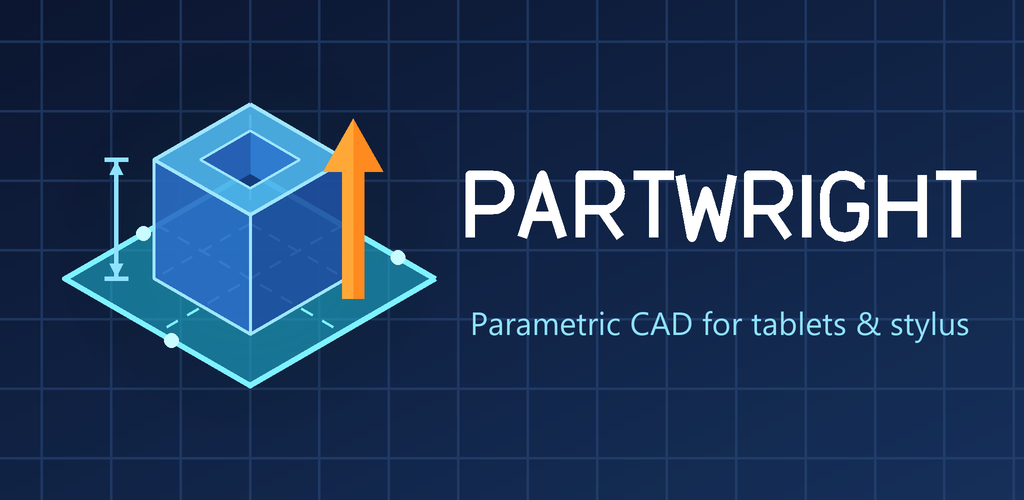
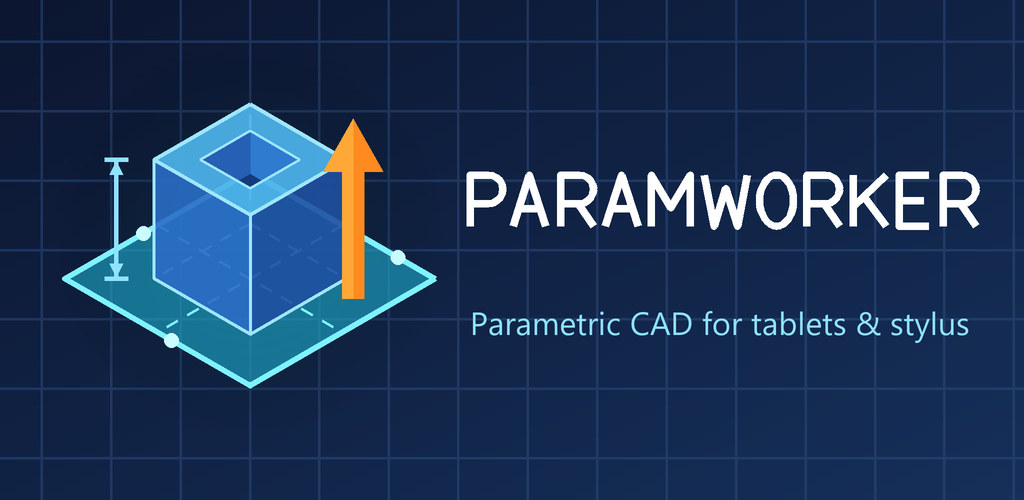
App umbenannt in ParamWorker (Paket io.github.kevbo8327.paramworker)
- Anzeigename, Startseite, Begrüßung, Hilfe, Feedback-Betreff, Theme-Namen
- Schriftzug PARAMWORKER im Startbildschirm und in der Store-Grafik (Linienschrift um M, O, K, E ergänzt)
- Projektexport .paramworker.json; .partwright.json bleibt importierbar
- Dateiformat-Kennung partwright-model bleibt, damit gespeicherte Modelle lesbar bleiben
- Store-Text, Datenschutzerklärung, README, ROADMAP, CI

Changed region(s): [[0.4375, 0.33, 0.9688, 0.48]]

diff --git a/docs/privacy/index.html b/docs/privacy/index.html
@@ -3,7 +3,7 @@
 <head>
 <meta charset="utf-8">
 <meta name="viewport" content="width=device-width, initial-scale=1">
-<title>Partwright – Datenschutzerklärung / Privacy Policy</title>
+<title>ParamWorker – Datenschutzerklärung / Privacy Policy</title>
 <style>
   :root { --bg: #f7f9fd; --fg: #0e1a33; --muted: #4a5b78; --accent: #0a6e8c; }
   @media (prefers-color-scheme: dark) { :root { --bg: #0a1226; --fg: #e8f1ff; --muted: #93a8cc; --accent: #34d1f0; } }
@@ -20,11 +20,11 @@
 <nav><a href="#de">Deutsch</a><a href="#en">English</a></nav>
 
 <section id="de" lang="de">
-<h1>Datenschutzerklärung für die App „Partwright“</h1>
+<h1>Datenschutzerklärung für die App „ParamWorker“</h1>
 <p class="muted">Stand: 10. Oktober 2026</p>
 
 <h2>Kurz gesagt</h2>
-<p>Partwright erhebt keine personenbezogenen Daten. Die App hat keinen Internetzugang, enthält keine Werbung, keine Analyse- oder
+<p>ParamWorker erhebt keine personenbezogenen Daten. Die App hat keinen Internetzugang, enthält keine Werbung, keine Analyse- oder
 Tracking-Werkzeuge und kein Benutzerkonto. Ihre Projekte bleiben auf Ihrem Gerät, solange Sie sie nicht selbst exportieren oder teilen.</p>
 
 <h2>Verantwortlicher</h2>
@@ -68,11 +68,11 @@ Erklärung vorher an. Es gilt die jeweils hier veröffentlichte Fassung.</p>
 <hr>
 
 <section id="en" lang="en">
-<h1>Privacy Policy for the app “Partwright”</h1>
+<h1>Privacy Policy for the app “ParamWorker”</h1>
 <p class="muted">Last updated: 10 October 2026</p>
 
 <h2>In short</h2>
-<p>Partwright does not collect any personal data. The app has no internet access, contains no advertising, no analytics or tracking
+<p>ParamWorker does not collect any personal data. The app has no internet access, contains no advertising, no analytics or tracking
 tools and no user account. Your projects stay on your device unless you export or share them yourself.</p>
 
 <h2>Controller</h2>

diff --git a/app/src/main/kotlin/dev/androidcad/app/ProjectMenu.kt b/app/src/main/kotlin/dev/androidcad/app/ProjectMenu.kt
@@ -255,7 +255,7 @@ internal fun rememberImporter(hub: ProjectHub): () -> Unit {
     val launcher = rememberLauncherForActivityResult(ActivityResultContracts.OpenDocument()) { uri ->
         if (uri != null) scope.launch {
             val text = withContext(Dispatchers.IO) { context.contentResolver.openInputStream(uri)?.use { it.readBytes().toString(Charsets.UTF_8) } }
-            if (text != null) hub.import(displayName(context, uri)?.removeSuffix(".partwright") ?: "Import", text)
+            if (text != null) hub.import(displayName(context, uri)?.removeSuffix(".paramworker")?.removeSuffix(".partwright") ?: "Import", text)
         }
     }
     return { launcher.launch(arrayOf("*/*")) }
@@ -272,10 +272,10 @@ private const val FEEDBACK_ADDRESS = "kb-it-services@outlook.de"
 /** Öffnet das E-Mail-Programm mit Adresse, Betreff und Version/Gerät (hilft beim Nachstellen); ohne E-Mail-App ein Hinweis mit der Adresse. */
 private fun sendFeedback(context: Context) {
     val version = runCatching { context.packageManager.getPackageInfo(context.packageName, 0).versionName }.getOrNull() ?: "?"
-    val body = "\n\n---\nPartwright $version · ${Build.MANUFACTURER} ${Build.MODEL} · Android ${Build.VERSION.RELEASE}"
+    val body = "\n\n---\nParamWorker $version · ${Build.MANUFACTURER} ${Build.MODEL} · Android ${Build.VERSION.RELEASE}"
     val intent = Intent(Intent.ACTION_SENDTO, Uri.parse("mailto:")).apply {
         putExtra(Intent.EXTRA_EMAIL, arrayOf(FEEDBACK_ADDRESS))
-        putExtra(Intent.EXTRA_SUBJECT, "Partwright $version – Feedback")
+        putExtra(Intent.EXTRA_SUBJECT, "ParamWorker $version – Feedback")
         putExtra(Intent.EXTRA_TEXT, body)
     }
     try {

diff --git a/app/src/main/kotlin/dev/androidcad/app/HelpDialog.kt b/app/src/main/kotlin/dev/androidcad/app/HelpDialog.kt
@@ -29,7 +29,7 @@ fun HelpDialog(hub: ProjectHub, firstStart: Boolean, onDismiss: () -> Unit) {
     AlertDialog(
         // beim ersten Start nur über die Knöpfe schließen: ein Tipp daneben soll die Einführung nicht unbemerkt wegnehmen
         onDismissRequest = { if (!firstStart) onDismiss() },
-        title = { Text(if (firstStart) "Willkommen bei Partwright" else "Hilfe") },
+        title = { Text(if (firstStart) "Willkommen bei ParamWorker" else "Hilfe") },
         text = {
             Column(Modifier.heightIn(max = 460.dp).verticalScroll(rememberScrollState()), verticalArrangement = Arrangement.spacedBy(6.dp)) {
                 Section("So entsteht ein Bauteil")
@@ -50,7 +50,7 @@ fun HelpDialog(hub: ProjectHub, firstStart: Boolean, onDismiss: () -> Unit) {
                 // Version für Rückmeldungen (welcher Stand wurde getestet)
                 val context = LocalContext.current
                 val version = remember { runCatching { context.packageManager.getPackageInfo(context.packageName, 0).versionName }.getOrNull() }
-                if (version != null) Text("Partwright $version", style = MaterialTheme.typography.labelSmall, color = MaterialTheme.colorScheme.onSurfaceVariant)
+                if (version != null) Text("ParamWorker $version", style = MaterialTheme.typography.labelSmall, color = MaterialTheme.colorScheme.onSurfaceVariant)
             }
         },
         confirmButton = {

diff --git a/app/src/main/kotlin/dev/androidcad/app/ModelScreen.kt b/app/src/main/kotlin/dev/androidcad/app/ModelScreen.kt
@@ -233,7 +233,7 @@ private fun ModelTopBar(hub: ProjectHub, compact: Boolean) {
                 }
                 DropdownMenuItem(text = { Text("STEP exportieren (CAD-Austausch)") }, onClick = { menu = false; stepExporter.launch("${state.projectName}.step") }, enabled = out?.body != null)
                 DropdownMenuItem(text = { Text("3MF exportieren (3D-Druck)") }, onClick = { menu = false; threeMfExporter.launch("${state.projectName}.3mf") }, enabled = out?.mesh != null)
-                DropdownMenuItem(text = { Text("Projekt exportieren …") }, onClick = { menu = false; projectExporter.launch("${state.projectName}.partwright.json") })
+                DropdownMenuItem(text = { Text("Projekt exportieren …") }, onClick = { menu = false; projectExporter.launch("${state.projectName}.paramworker.json") })
                 DropdownMenuItem(text = { Text("Zum Skript-Editor (OpenSCAD)") }, onClick = { menu = false; hub.switchTo(ProjectKind.SCRIPT) })
             }
         }

diff --git a/app/src/main/kotlin/dev/androidcad/app/StartScreen.kt b/app/src/main/kotlin/dev/androidcad/app/StartScreen.kt
@@ -66,7 +66,7 @@ fun StartScreen(hub: ProjectHub) {
         ) {
             item(span = { GridItemSpan(maxLineSpan) }) {
                 Column(verticalArrangement = Arrangement.spacedBy(4.dp)) {
-                    Text("Partwright", style = MaterialTheme.typography.headlineMedium, color = colors.onBackground)
+                    Text("ParamWorker", style = MaterialTheme.typography.headlineMedium, color = colors.onBackground)
                     Text("Parametrisch konstruieren – Skizze, Maße, Körper.", style = MaterialTheme.typography.bodyMedium, color = colors.onSurfaceVariant)
                 }
             }

diff --git a/app/src/main/kotlin/dev/androidcad/app/Theme.kt b/app/src/main/kotlin/dev/androidcad/app/Theme.kt
@@ -121,7 +121,7 @@ fun isDarkTheme(mode: ThemeMode): Boolean = when (mode) {
 
 /** Thema „Blaupause“: Material-Farben und CAD-Farben passend zu [mode]. */
 @Composable
-fun PartwrightTheme(mode: ThemeMode, content: @Composable () -> Unit) {
+fun ParamWorkerTheme(mode: ThemeMode, content: @Composable () -> Unit) {
     val dark = isDarkTheme(mode)
     MaterialTheme(colorScheme = if (dark) DarkScheme else LightScheme, typography = AppTypography) {
         CompositionLocalProvider(LocalCadColors provides if (dark) BlueprintDark else BlueprintLight, content = content)

diff --git a/app/src/main/kotlin/dev/androidcad/app/ProjectHub.kt b/app/src/main/kotlin/dev/androidcad/app/ProjectHub.kt
@@ -73,7 +73,7 @@ class ProjectHub(val workspace: WorkspaceState, val script: CadState, private va
         activate(ProjectKind.SCRIPT)
     }
 
-    /** Importiert eine Datei: eine Partwright-Modelldatei als neues Modell, alles andere als OpenSCAD-Skript. */
+    /** Importiert eine Datei: eine ParamWorker-Modelldatei als neues Modell, alles andere als OpenSCAD-Skript. */
     fun import(name: String, text: String) {
         if (dev.androidcad.model.DocumentCodec.looksLikeModel(text)) {
             flushActive()

diff --git a/core/model/src/main/kotlin/dev/androidcad/model/DocumentCodec.kt b/core/model/src/main/kotlin/dev/androidcad/model/DocumentCodec.kt
@@ -22,6 +22,7 @@ import dev.androidcad.sketch.Vec2
  * Extrusionsparametern. Versioniert, damit spätere Features (Bohrung, Verrundung …) alte Dateien nicht entwerten.
  */
 object DocumentCodec {
+    // Kennung aus der Zeit als „Partwright“: steht in jeder gespeicherten Datei, bleibt daher trotz neuem App-Namen
     const val FORMAT = "partwright-model"
 
     /** Name des Formats vor der Umbenennung der App; solche Dateien bleiben lesbar und werden beim Speichern umgeschrieben. */

diff --git a/app/src/main/kotlin/dev/androidcad/app/MainActivity.kt b/app/src/main/kotlin/dev/androidcad/app/MainActivity.kt
@@ -45,7 +45,7 @@ class MainActivity : ComponentActivity() {
                 )
                 onDispose { }
             }
-            PartwrightTheme(mode) {
+            ParamWorkerTheme(mode) {
                 AppRoot(hub)
             }
         }

diff --git a/scripts/make-icon.py b/scripts/make-icon.py
@@ -1,12 +1,12 @@
 """
-Erzeugt App-Icon, Startbildschirm-Motiv und Store-Grafiken von Partwright aus EINER Formenliste:
+Erzeugt App-Icon, Startbildschirm-Motiv und Store-Grafiken von ParamWorker aus EINER Formenliste:
 
 - app/src/main/res/drawable/ic_launcher_{background,foreground,monochrome}.xml  (adaptives Vektor-Icon, 108 × 108)
 - app/src/main/res/mipmap-anydpi-v26/ic_launcher{,_round}.xml
 - docs/store/icon-512.png        (Play-Store-Symbol, 512 × 512, randlos ohne Rundung/Schatten – Google maskiert selbst)
 - docs/store/feature-graphic.png (Play-Store-Grafik, 1024 × 500)
 - app/src/main/res/drawable/ic_splash.xml        (Startbildschirm: detailliertere Fassung des Motivs)
-- app/src/main/res/drawable/splash_branding.xml  (Startbildschirm ab Android 12: Schriftzug PARTWRIGHT, 200 × 80 dp)
+- app/src/main/res/drawable/splash_branding.xml  (Startbildschirm ab Android 12: Schriftzug PARAMWORKER, 200 × 80 dp)
 
 Motiv (Stil „Blaupause“): Auf einer leuchtend türkisen Skizzenfläche steht ein blauer Block mit Tasche; ein orangefarbener
 Extrusionspfeil steigt auf – Skizze → Körper, der Kern der App. Hintergrund: Marineblau mit grobem Raster.
@@ -120,7 +120,7 @@ def detail_shapes():
         ("fill", arrow(), ARROW, 1.0), ("fill", arrow_light(), ARROW_LIGHT, 0.55),
     ]
 
-# ---- Schriftzug PARTWRIGHT (eigene geometrische Linienschrift – keine fremde Schriftart nötig) -------------
+# ---- Schriftzug PARAMWORKER (eigene geometrische Linienschrift – keine fremde Schriftart nötig) -------------
 CAP, LW = 10.0, 6.4                            # Versalhöhe, Buchstabenbreite (Einheiten)
 def _arc(cx, cy, rx, ry, a0, a1, n=10):
     return [(cx + rx * math.cos(math.radians(a0 + (a1 - a0) * i / n)), cy + ry * math.sin(math.radians(a0 + (a1 - a0) * i / n))) for i in range(n + 1)]
@@ -133,12 +133,16 @@ GLYPHS = {
     "I": [[(0, 0), (0, CAP)]],
     "G": [[(LW, 1.6)] + _arc(3.2, 3.2, 3.2, 3.2, -30, -180, 8) + [(0, 6.8)] + _arc(3.2, 6.8, 3.2, 3.2, 180, 0, 8) + [(LW, 5.2), (3.6, 5.2)]],
     "H": [[(0, 0), (0, CAP)], [(LW, 0), (LW, CAP)], [(0, 5), (LW, 5)]],
+    "M": [[(0, CAP), (0, 0), (3.8, 6.4), (7.6, 0), (7.6, CAP)]],
+    "O": [_arc(3.3, 5, 3.3, 5, 0, 360, 32)],
+    "K": [[(0, 0), (0, CAP)], [(LW, 0), (0, 6.2)], [(2.3, 4.5), (LW, CAP)]],
+    "E": [[(5.8, 0), (0, 0), (0, CAP), (5.8, CAP)], [(0, 5), (4.8, 5)]],
 }
-WIDTH = {"W": 8.4, "I": 0.0}
+WIDTH = {"W": 8.4, "I": 0.0, "M": 7.6, "E": 5.8}
 TRACK = 2.9                                    # Laufweite zwischen Buchstaben
-KERN = {("P", "A"): -0.9, ("R", "T"): -0.7, ("T", "W"): -1.9, ("W", "R"): -0.3, ("H", "T"): -0.7}   # Unterschneidung je Paar
+KERN = {("P", "A"): -0.9, ("R", "A"): -0.6, ("A", "M"): -0.3, ("M", "W"): -0.2, ("W", "O"): -0.5, ("O", "R"): -0.1, ("R", "K"): -0.2, ("K", "E"): -0.4, ("E", "R"): -0.1}   # Unterschneidung je Paar
 
-def wordmark(text="PARTWRIGHT"):
+def wordmark(text="PARAMWORKER"):
     """Linienzüge des Schriftzugs (Einheiten, oben links = 0,0) und seine Breite."""
     lines, x = [], 0.0
     for i, ch in enumerate(text):

diff --git a/docs/ROADMAP.md b/docs/ROADMAP.md
@@ -35,14 +35,15 @@ Entscheidungen: Vertrieb über **Google Play**, **Freemium** (Pro als einmaliger
 (heutiger Stand stabil + Export, Messen, Parameter), weitere Funktionen als Updates. Grobe Dauer: ca. 3–4 Monate.
 
 - [ ] **Phase 0 – Fundament:**
-  - [x] App-Name **Partwright** (Store-Titel z. B. „Partwright 3D – CAD für Tablet & Stift“), App-Kennung `io.github.kevbo8327.partwright`
-    (vorher `dev.androidcad.app`; nach dem ersten Upload nicht mehr änderbar). Geprüft: EUIPO und Play Store ohne Treffer, DPMA ohne Treffer für „Partwright“ (auch ohne „3D“); Domain vorerst nicht gesichert
+  - [x] App-Name **ParamWorker** (18.10.2026; vorher „Partwright“ – Websuche ergab doch bestehende Nutzungen), App-Kennung
+    `io.github.kevbo8327.paramworker` (vorher `…partwright`, davor `dev.androidcad.app`; nach dem ersten Upload nicht mehr änderbar).
+    Websuche ohne Treffer in Software/CAD; Prüfung in DPMA/EUIPO/Play Store und Domain durch den Nutzer. Dateiformat-Kennung bleibt `partwright-model`
   - [x] Release-Build: Signatur über nicht eingecheckte `keystore.properties` (sonst Debug-Schlüssel zum Testen), R8 + Ressourcen-Verkleinerung,
     `bundleRelease` → AAB (≈ 16 MB Download je Gerät). Release-APK auf dem Emulator geprüft (Skizze, Extrusion, Verrundung, Lizenzseite – keine
     JNI-/R8-Fehler). Offen: Upload-Schlüssel erzeugen (Nutzer, siehe README)
   - [x] **App-Icon und Startbildschirm:** Stil „Blaupause“: türkise Skizzenfläche, blauer Block mit Tasche, orangefarbener Extrusionspfeil auf Marineblau mit Raster (nach Entwurf des Nutzers); adaptives Vektor-Icon mit
     einfarbiger Ebene (Themensymbole), Startbildschirm über `androidx.core:core-splashscreen` (einheitlich ab Android 8) mit detaillierterem Motiv (Lichtschein, Skizzenlinien,
-    verdeckte Kanten) und ab Android 12 dem Schriftzug PARTWRIGHT (eigene Linienschrift, keine fremde Schriftart). Alles aus
+    verdeckte Kanten) und ab Android 12 dem Schriftzug PARAMWORKER (eigene Linienschrift, keine fremde Schriftart). Alles aus
     `scripts/make-icon.py` erzeugt, dazu Store-Symbol `docs/store/icon-512.png` und Store-Grafik `docs/store/feature-graphic.png`
   - [x] **Automatische Prüfung** (GitHub Actions): JVM-Tests, OpenCascade je ABI mit Zwischenspeicher, Debug-APK und Release-AAB;
     `scripts/build-occt.ps1` läuft dafür auch unter Linux (PowerShell 7, `ANDROID_HOME`)
@@ -61,7 +62,7 @@ Entscheidungen: Vertrieb über **Google Play**, **Freemium** (Pro als einmaliger
 - [ ] **Phase 1 – Umfang 1.0:** ~~**Drehen**~~ ✅ (Revolve, `BRepPrimAPI_MakeRevol`: Achse = Skizzenachse oder Hilfslinie, Teil-/Volldrehung,
   symmetrisch, Hinzufügen/Abtragen, als Muster-Quelle; Prüfung „Profil schneidet die Achse“) und ~~**Schale/Aushöhlen**~~ ✅ (`BRepOffsetAPI_MakeThickSolid`: Öffnungen antippen, Wandstärke; Außen-, Innen- und Randflächen
   benannt, Innenkanten verrundbar) –
-  beschlossen am 08.10.2026, Grundwerkzeuge für Wellen/Knöpfe bzw. Gehäuse; ~~**Projekt teilen/importieren**~~ ✅ (⋮ › Projekt exportieren als `.partwright.json`; Projektmenü › Projekt importieren erkennt
+  beschlossen am 08.10.2026, Grundwerkzeuge für Wellen/Knöpfe bzw. Gehäuse; ~~**Projekt teilen/importieren**~~ ✅ (⋮ › Projekt exportieren als `.paramworker.json`; Projektmenü › Projekt importieren erkennt
   Modell oder `.scad`; Formatversion wird geprüft, Dateien neuerer App-Versionen werden abgelehnt) (vor der Beta);
   ~~STEP-Export~~ ✅ (OCCT `STEPControl_Writer`, AP214 in mm; DataExchange kostet ca. 17,7 MB je ABI gestrippt), ~~3MF-Export~~ ✅ (⋮ › 3MF exportieren, Modell und Skript; geschlossenes Netz in mm), ~~Messen~~ ✅ (Länge/Radius, Flächeninhalt, kürzester Abstand mit Linie, Winkel), ~~Parameter-Tabelle~~ ✅ (benannte Parameter mit Ausdrücken; Skizzenmaße, Extrusionslänge, Drehwinkel, Wandstärke, Verrundung binden);
   kleine Lücken (Mittelebene, gedrehte Grundebene, Körperumriss direkt antippbar, zwei Layout-Punkte).

diff --git a/docs/store/listing.md b/docs/store/listing.md
@@ -10,14 +10,14 @@ sonst verspricht der Eintrag eine Sprache, die die App nicht hat.
 ## Deutsch
 
 **Titel**
-Partwright – CAD für Android
+ParamWorker – CAD für Android
 
 **Kurzbeschreibung**
 Parametrische 3D-Konstruktion auf dem Tablet: skizzieren, bemaßen, drucken.
 
 **Langbeschreibung**
 
-Partwright ist ein parametrisches CAD-Programm für Android-Tablets und -Smartphones. Sie zeichnen eine Skizze, bemaßen sie und machen daraus ein Bauteil – mit echter, exakter Geometrie, die sich jederzeit über ihre Maße ändern lässt. Alles läuft direkt auf dem Gerät: ohne Konto, ohne Cloud, ohne Internet.
+ParamWorker ist ein parametrisches CAD-Programm für Android-Tablets und -Smartphones. Sie zeichnen eine Skizze, bemaßen sie und machen daraus ein Bauteil – mit echter, exakter Geometrie, die sich jederzeit über ihre Maße ändern lässt. Alles läuft direkt auf dem Gerät: ohne Konto, ohne Cloud, ohne Internet.
 
 SKIZZIEREN
 • Linie, Rechteck (Ecke, Mitte, 3 Punkte), Kreis (Mitte, 2 oder 3 Punkte, tangential), Bogen, Langloch, Vieleck
@@ -49,21 +49,21 @@ FÜR FINGER, STIFT UND MAUS
 • Tablet- und Smartphone-Layout, helles und dunkles Design
 
 IHRE DATEN BLEIBEN BEI IHNEN
-Partwright fordert keine Berechtigungen an, braucht kein Internet und enthält weder Werbung noch Tracking. Ihre Projekte liegen auf Ihrem Gerät.
+ParamWorker fordert keine Berechtigungen an, braucht kein Internet und enthält weder Werbung noch Tracking. Ihre Projekte liegen auf Ihrem Gerät.
 
-Der Geometriekern ist Open CASCADE Technology. Partwright befindet sich in aktiver Entwicklung – Rückmeldungen sind sehr willkommen.
+Der Geometriekern ist Open CASCADE Technology. ParamWorker befindet sich in aktiver Entwicklung – Rückmeldungen sind sehr willkommen.
 
 ## English
 
 **Title**
-Partwright – CAD for Android
+ParamWorker – CAD for Android
 
 **Short description**
 Parametric 3D design on your tablet: sketch, dimension, print.
 
 **Full description**
 
-Partwright is a parametric CAD app for Android tablets and phones. Draw a sketch, add dimensions and turn it into a part – with real, exact geometry that you can change at any time through its dimensions. Everything runs on your device: no account, no cloud, no internet.
+ParamWorker is a parametric CAD app for Android tablets and phones. Draw a sketch, add dimensions and turn it into a part – with real, exact geometry that you can change at any time through its dimensions. Everything runs on your device: no account, no cloud, no internet.
 
 SKETCHING
 • Line, rectangle (corner, centre, 3 points), circle (centre, 2 or 3 points, tangent), arc, slot, polygon
@@ -95,9 +95,9 @@ FOR FINGER, PEN AND MOUSE
 • Tablet and phone layouts, light and dark theme
 
 YOUR DATA STAYS WITH YOU
-Partwright requests no permissions, needs no internet and contains no ads or tracking. Your projects stay on your device.
+ParamWorker requests no permissions, needs no internet and contains no ads or tracking. Your projects stay on your device.
 
-The geometry kernel is Open CASCADE Technology. Partwright is in active development – feedback is very welcome.
+The geometry kernel is Open CASCADE Technology. ParamWorker is in active development – feedback is very welcome.
 
 ## Grafiken
 
